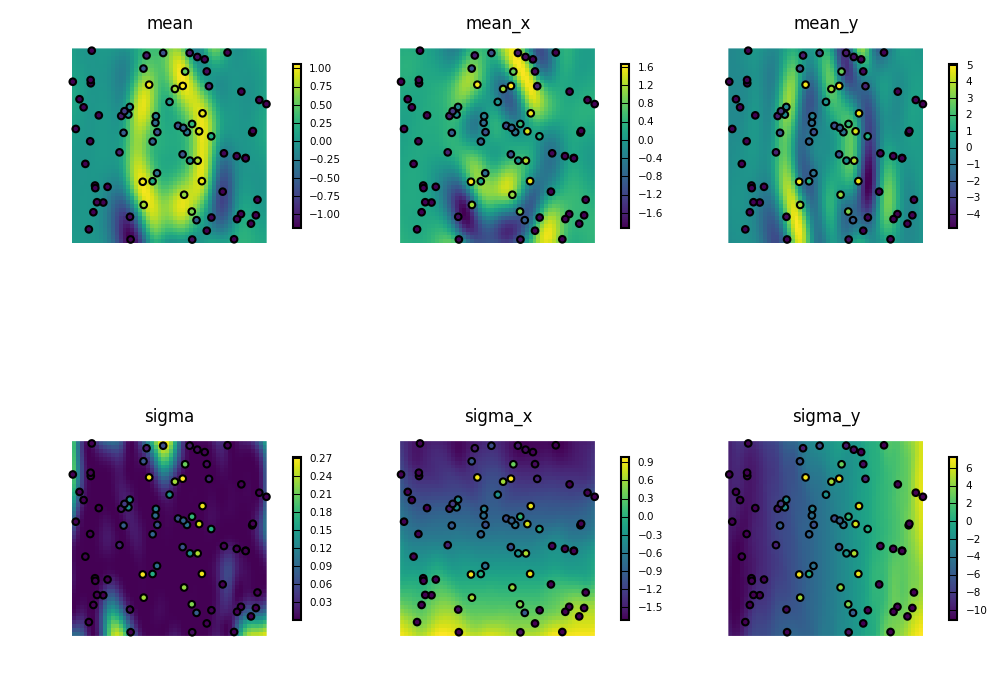
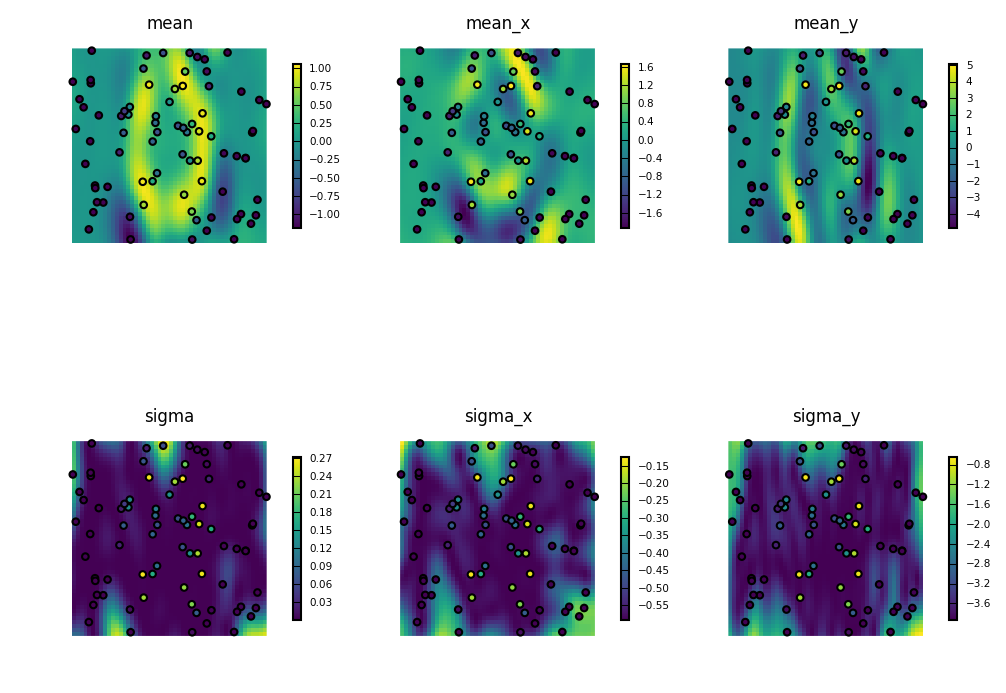
Add empirical mean and sigma derivative

diff --git a/gaussian_process/gp.py b/gaussian_process/gp.py
@@ -80,14 +80,14 @@ class GaussianProcess:
         assert isinstance(list_obs_2, list)
 
         if order == 1:
-            fction = self.covariance.compute_pd
+            fction = partial(self.covariance.compute_pd, i=pd_dim)
         elif order == 2:
-            fction = partial(self.covariance.compute_pdpd, j=pd_dim)
+            fction = partial(self.covariance.compute_pdpd, i=pd_dim, j=pd_dim)
         else:
             raise UnsupportedDerivativeOrder
         cov_matrix = np.zeros((len(list_obs_1), len(list_obs_2)))
         cov_matrix_flat = [
-            (i, j, fction(xi, yj, pd_dim))
+            (i, j, fction(xi, yj))
             for (i, xi) in enumerate(list_obs_1)
             for (j, yj) in enumerate(list_obs_2)
             ]
@@ -252,8 +252,11 @@ class GaussianProcess:
         assert isinstance(x[0], tuple)
         if derivative:
             assert 0 <= i < len(x[0])
+            # auto_cov_function = partial(
+                # self._compute_covariance_matrix_pd, pd_dim=i, order=2
+            # )
             auto_cov_function = partial(
-                self._compute_covariance_matrix_pd, pd_dim=i, order=2
+                self._compute_covariance_matrix_pd, pd_dim=i
             )
             cov_function = partial(
                 self._compute_covariance_matrix_pd, pd_dim=i

diff --git a/gaussian_process/covariance.py b/gaussian_process/covariance.py
@@ -92,12 +92,10 @@ class SquaredExponential(Covariance):
         :return: second order partial derivative between x and y
         """
 
-        common_term = self.compute_pd(x, y, i=i)
-
+        result = (
+            self.compute_pd(x, y, i=i) * (x[j] - y[j]) / self.w1[j] ** 2
+        )
         if i == j:
-            first_term = self.compute(x, y) * y[i] / self.w1[i] ** 2
-            result = first_term + common_term * (x[j] - y[j]) / self.w1[j] ** 2
-        else:
-            result = common_term * (x[j] - y[j]) / self.w1[j] ** 2
+            result += self.compute(x, y) / self.w1[i] ** 2
 
         return result
